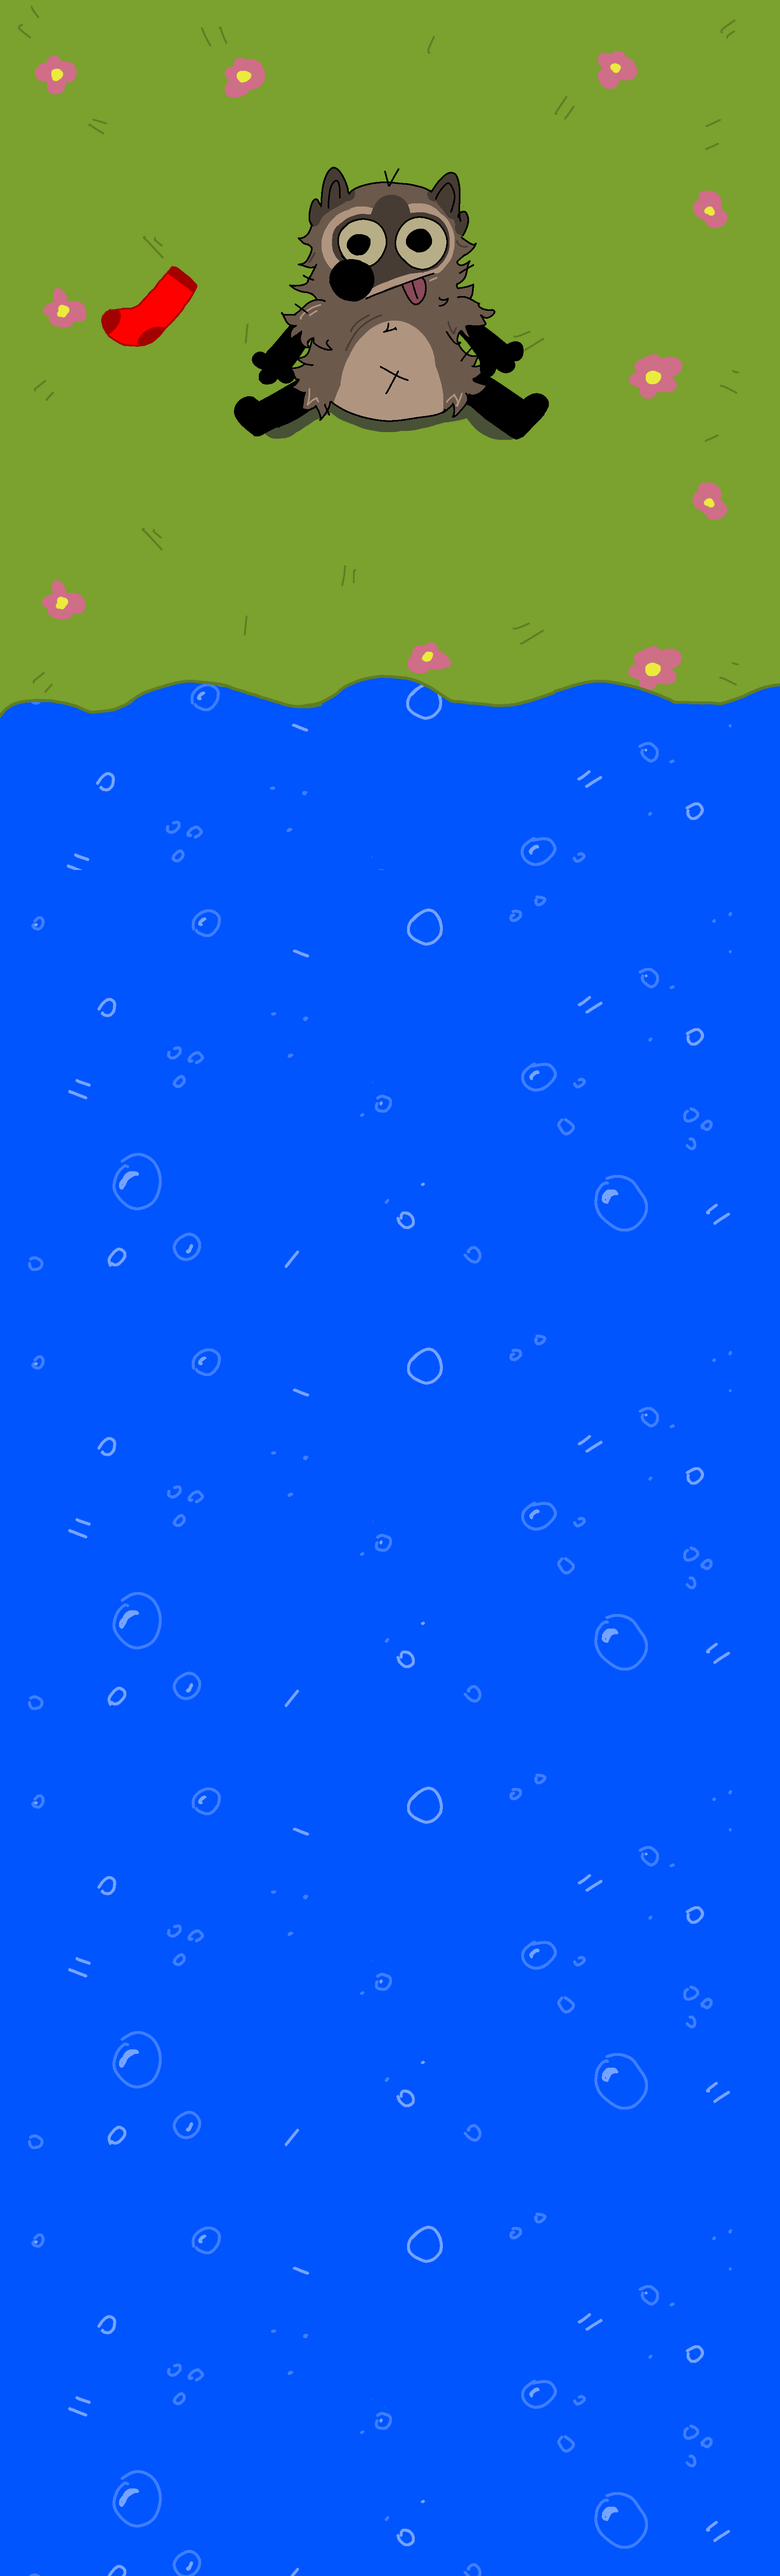
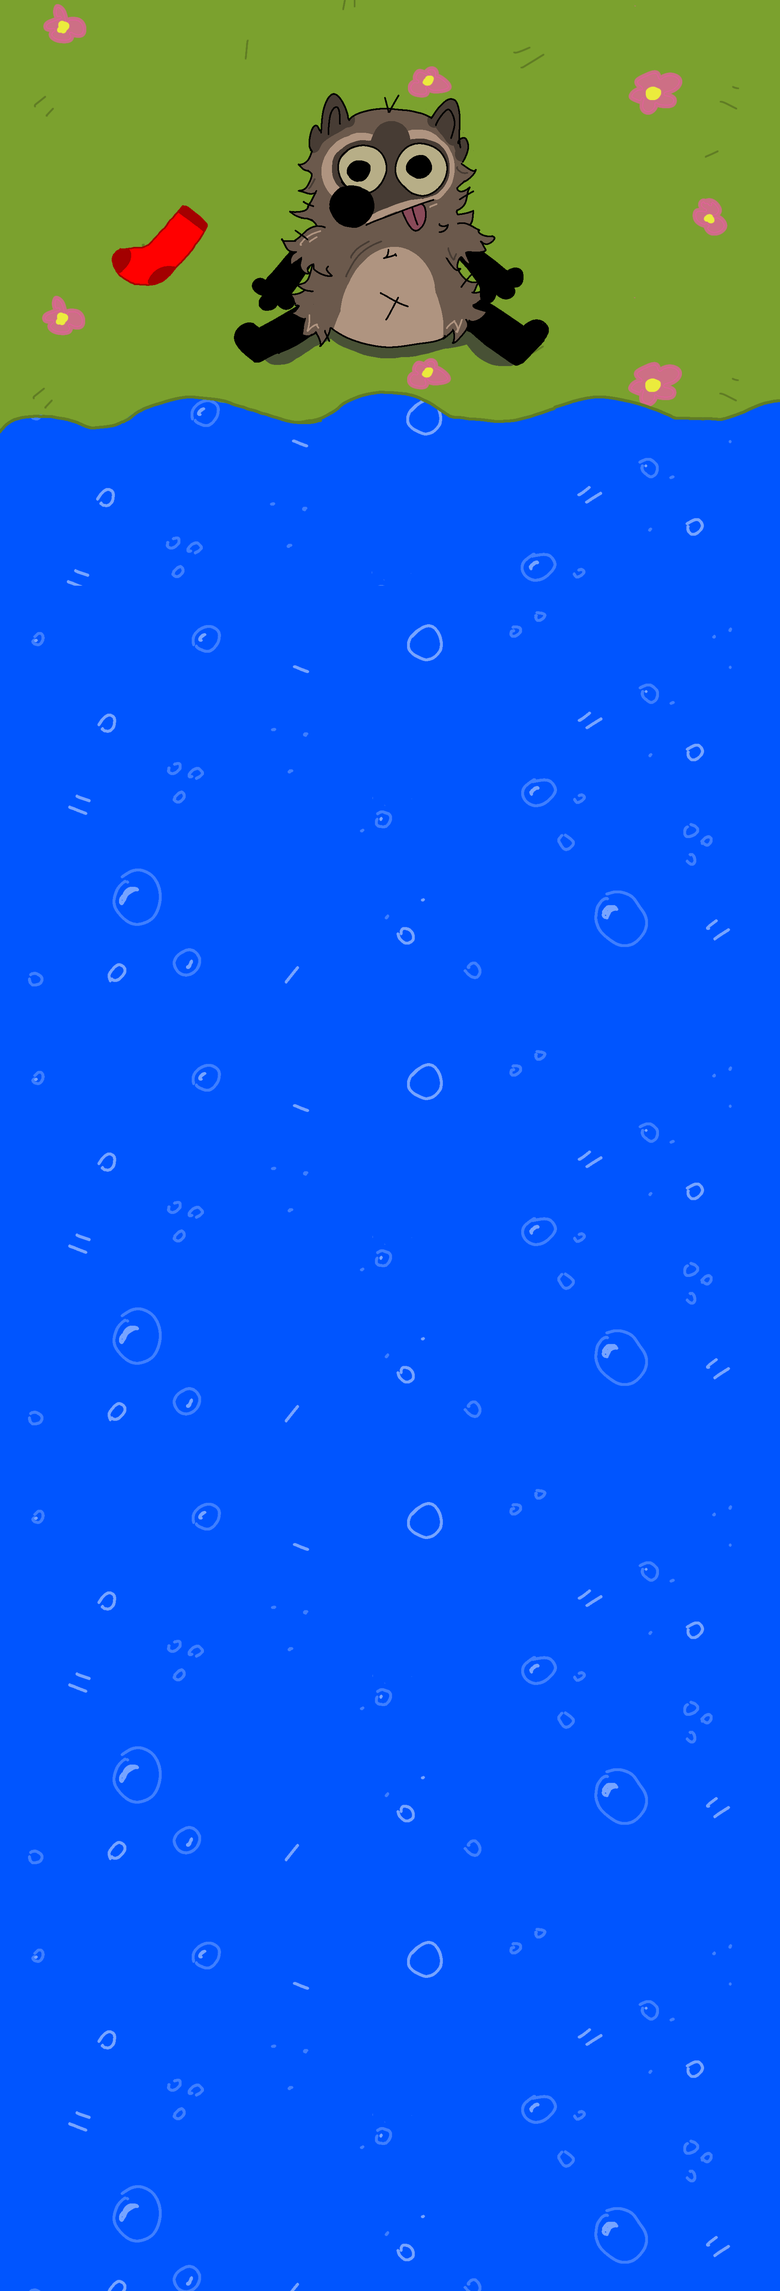
Ласт поправки

diff --git a/index.html b/index.html
@@ -13,7 +13,7 @@
     <header class="header" aria-label="Header section">
         <div class="container">
             <section class="menu">
-                <a href="">МЕНЮ</a>
+                <a href="index.html">МЕНЮ</a>
             </section>
         </div>
     </header>
@@ -28,14 +28,14 @@
                 <a href="index2.html">КЛФССИФИКАЦИЯ</a>
                 <a href="index2.html">ПИТАНИЕ</a>
                 <a href="index2.html">СТРОЕНИЕ</a>
-                <a href="#">РАЗМНОЖЕНИЕ</a>
-                <a href="#">ПОЛЬЗА</a>
-                <a href="#">ВРЕД</a>
-                <a href="#">ВРАГИ</a>
-                <a href="#">ДРУЗЬЯ</a>
-                <a href="#">ОСОБЕННОСТИ</a>
-                <a href="#">СЛЕД В ИСКУССТВЕ</a>
-                <a href="#">ИСТОЧНИКИ</a>
+                <a href="index3.html">РАЗМНОЖЕНИЕ</a>
+                <a href="index3.html">ПОЛЬЗА</a>
+                <a href="index3.html">ВРЕД</a>
+                <a href="index3.html">ВРАГИ</a>
+                <a href="index3.html">ДРУЗЬЯ</a>
+                <a href="index4.html">ОСОБЕННОСТИ</a>
+                <a href="index4.html">СЛЕД В ИСКУССТВЕ</a>
+                <a href="index4.html">ИСТОЧНИКИ</a>
             </div>
 
         </div>

diff --git a/index2.html b/index2.html
@@ -15,7 +15,7 @@
     <header class="header" aria-label="Header section">
         <div class="container">
             <nav class="menu">
-                <a href="#" class="menu-title">МЕНЮ</a>
+                <a href="index.html" class="menu-title">МЕНЮ</a>
                 <ul class="dropdown">
                     <li><a href="index2.html">АРЕАЛ</a></li>
                     <li><a href="#klass">КЛАССИФИКАЦИЯ</a></li>
@@ -70,7 +70,7 @@
                         <p class="class_p">
                             1.Вид: Енот-полоскун <br>2.Род: Енот <br>3.Семейство: Енотовидные <br>4.Отряд: Хищные
                             <br>5.Подкласс: Плацентарные <br>6.Класс: Млекопитающие <br>7.Подтип: Позвоночные <br>8.Тип:
-                            Хордовые <br>9.Царство: Животные Империя: Клеточные
+                            Хордовые <br>9.Царство: Животные <br>Империя: Клеточные
                         </p>
                         <div class="enot">
                             <img src="Img/favicon.png" alt="">

diff --git a/Styles/areal.css b/Styles/areal.css
@@ -110,14 +110,12 @@ body {
     display: block;
 }
 
-body {
-    padding-top: 130px;
-}
 
 .hero__content {
     width: 1000px;
     height: 800px;
-    margin: 80px auto;
+    margin: 0 auto;
+    margin-top: 200px;
     background-color: #EBEB3D;
     text-align: center;
     border: 6px solid #AFAF34;
@@ -195,7 +193,7 @@ body {
 }
 
 .class__content {
-    margin: 1300px auto;
+    margin: 700px auto;
     width: 1200px;
     height: 330px;
     background-color: #EBEB3D;
@@ -212,9 +210,10 @@ body {
 .class__content1 {
     position: relative;
     left: 330px;
-    margin-top: 400px;
+    margin-top: 200px;
+    padding-left: 30px;
     width: 1000px;
-    height: 560px;
+    height: 600px;
     background-color: #EBEB3D;
     border: 6px solid #AFAF34;
 }
@@ -232,7 +231,7 @@ body {
 }
 
 .pitanie__container {
-    margin: 1600px auto;
+    margin: 1300px auto;
     width: 1000px;
     height: 200px;
     background-color: #EBEB3D;

diff --git a/Styles/last.css b/Styles/last.css
@@ -131,7 +131,7 @@ body {
 
 .osoben_section {
     margin: 0 auto;
-    margin-top: 1900px;
+    margin-top: 1200px;
     width: 1200px;
     height: 200px;
     background-color: #EBEB3D;
@@ -147,7 +147,7 @@ body {
 
 .mit_section {
     margin: 0 auto;
-    margin-top: 200px;
+    margin-top: 0px;
     width: 1200px;
     height: 450px;
     background-color: #EBEB3D;
@@ -166,7 +166,7 @@ body {
     width: 200px;
     height: 200px;
     position: relative;
-    top: 600px;
+    top: 400px;
     left: 1200px;
 }
 
@@ -281,7 +281,7 @@ body {
 
 .istok_section {
     margin: 0 auto;
-    margin-top: 900px;
+    margin-top: 700px;
     width: 1200px;
     height: 250px;
     background-color: #EBEB3D;
@@ -321,7 +321,7 @@ body {
 }
 
 .footer_wrapper {
-    margin-top: 500px;
+    margin-top: 200px;
     height: 100px;
     background-color: #EBEB3D;
     border: 6px solid #AFAF34;

diff --git a/index3.html b/index3.html
@@ -13,7 +13,7 @@
     <header class="header" aria-label="Header section">
         <div class="container">
             <nav class="menu">
-                <a href="#" class="menu-title">МЕНЮ</a>
+                <a href="index.html" class="menu-title">МЕНЮ</a>
                 <ul class="dropdown">
                     <li><a href="index2.html">АРЕАЛ</a></li>
                     <li><a href="index2.html">КЛАССИФИКАЦИЯ</a></li>

diff --git a/index4.html b/index4.html
@@ -13,7 +13,7 @@
     <header class="header" aria-label="Header section">
         <div class="container">
             <nav class="menu">
-                <a href="#" class="menu-title">МЕНЮ</a>
+                <a href="#" class="index.html">МЕНЮ</a>
                 <ul class="dropdown">
                     <li><a href="index2.html">АРЕАЛ</a></li>
                     <li><a href="index2.html">КЛАССИФИКАЦИЯ</a></li>
